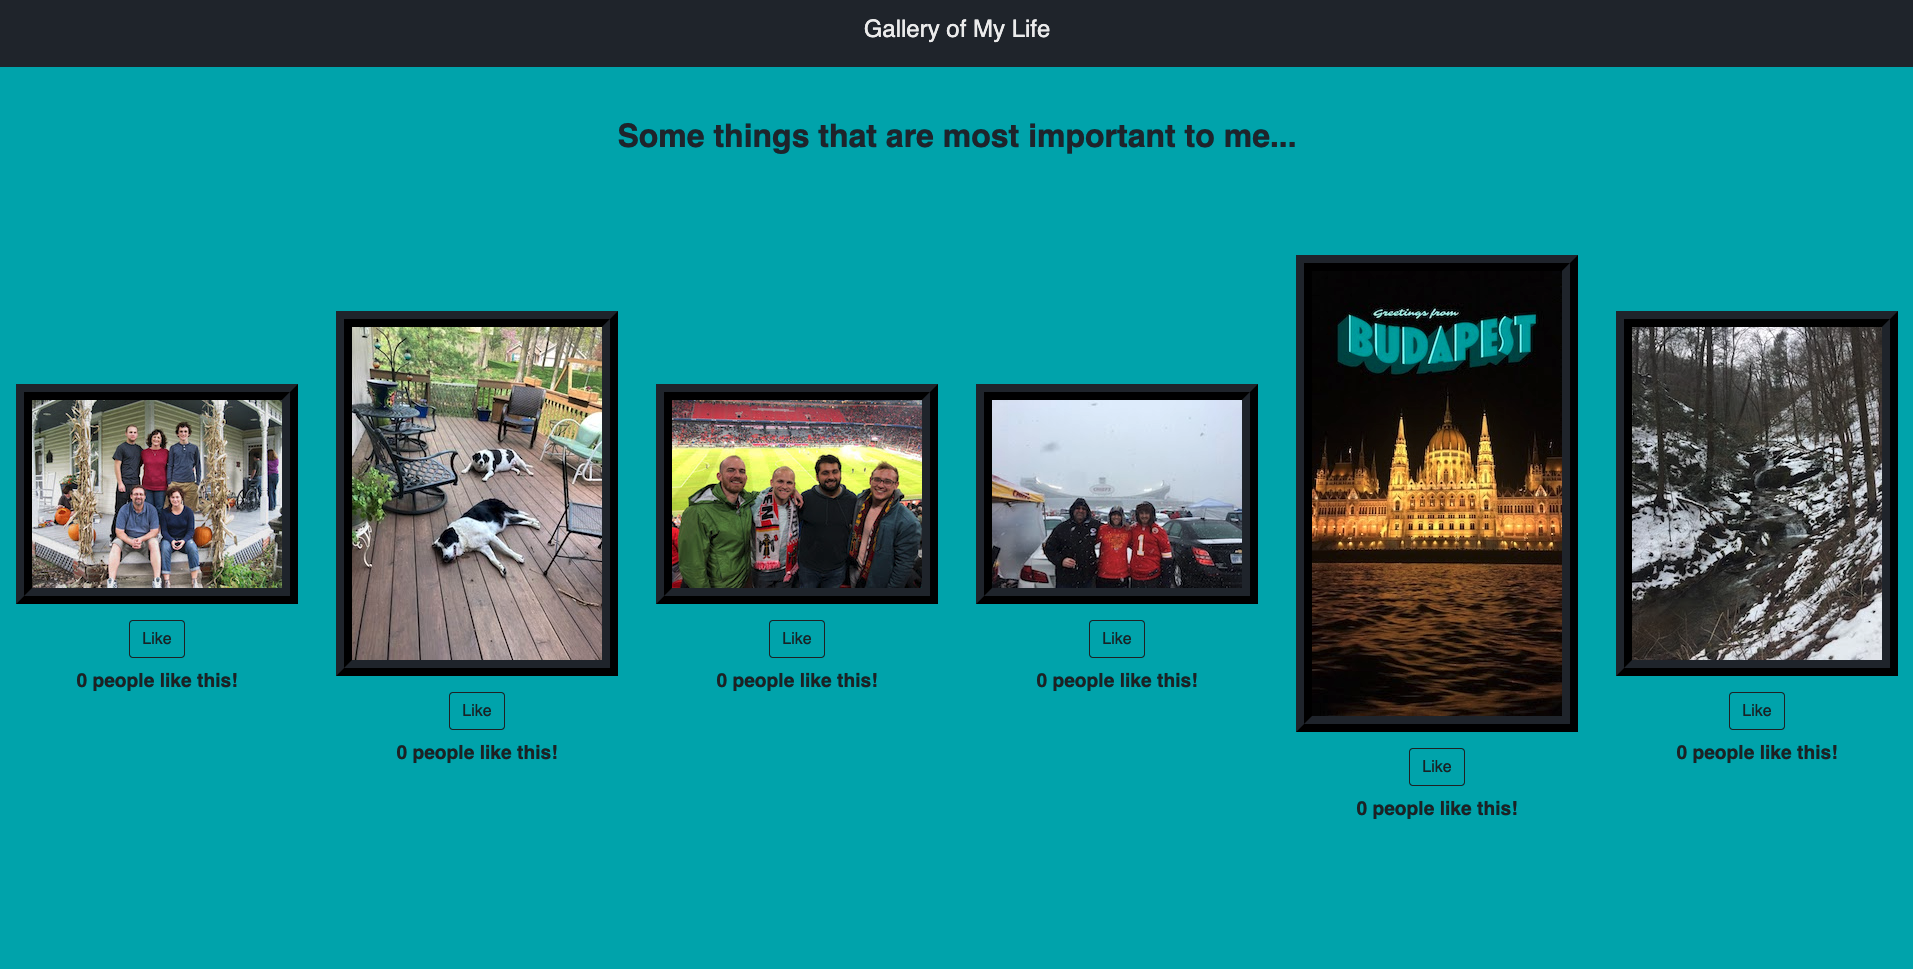
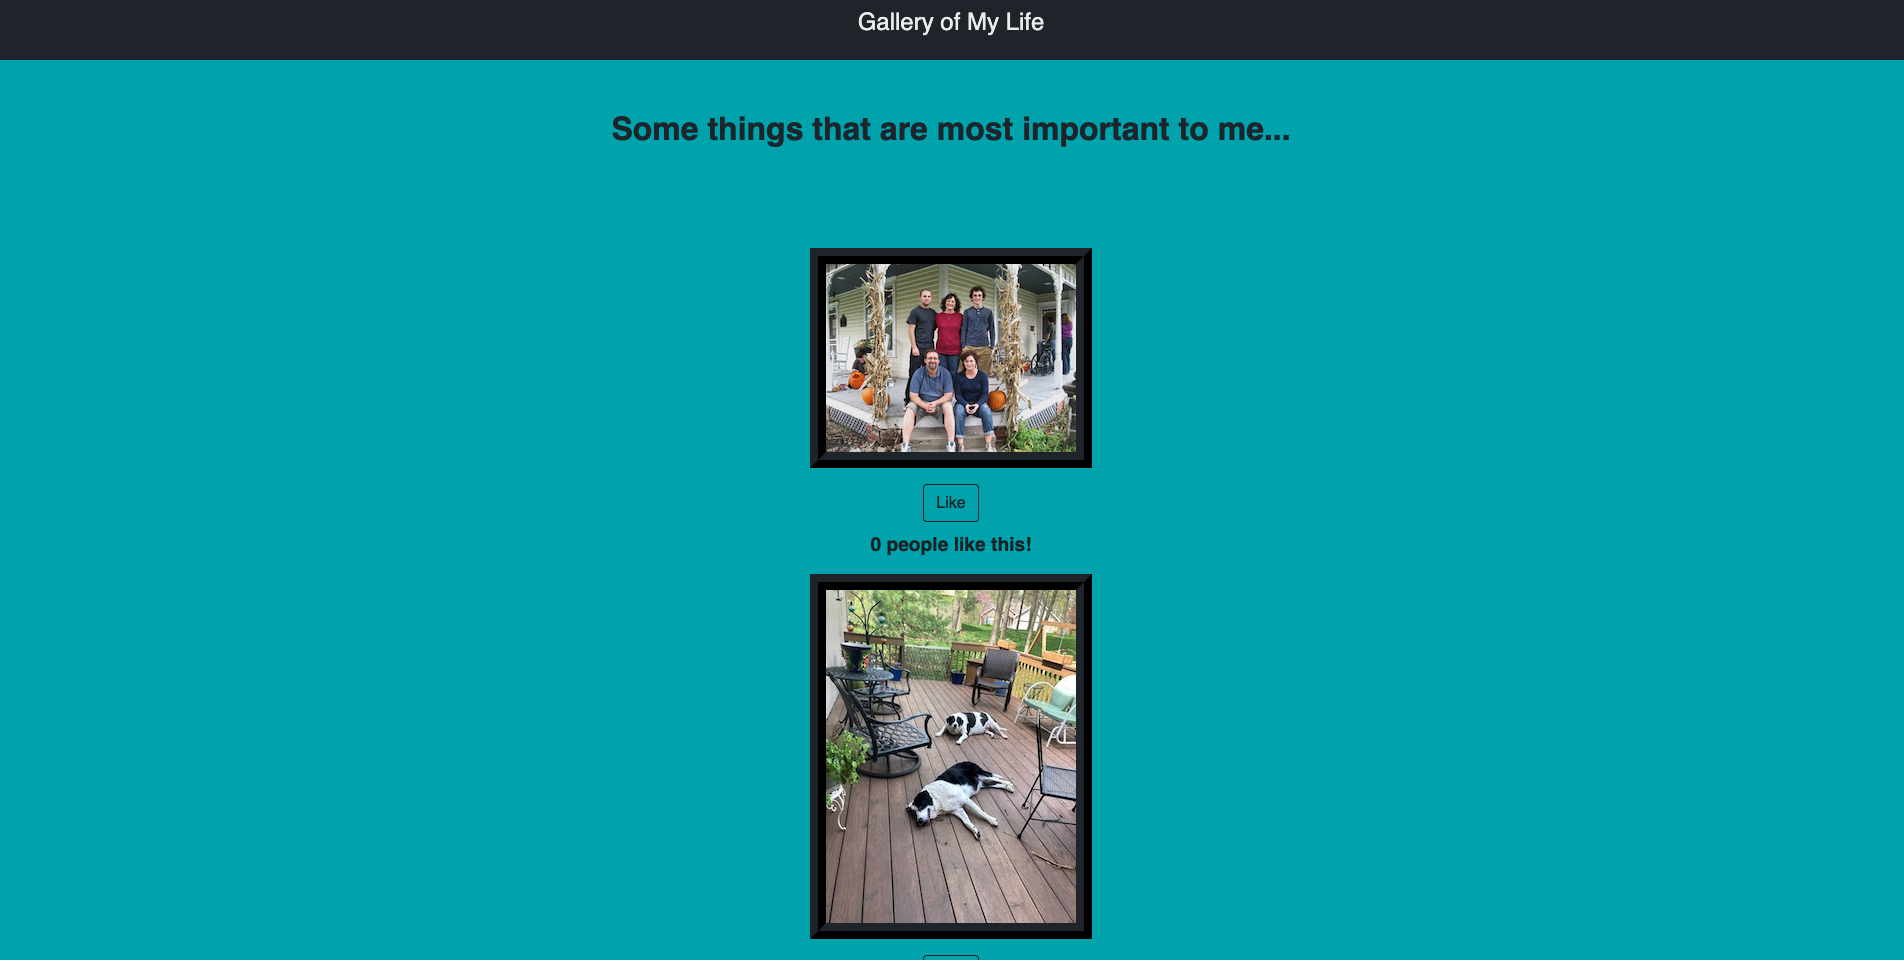
flexbox class removed

diff --git a/src/components/GalleryItem/GalleryItem.jsx b/src/components/GalleryItem/GalleryItem.jsx
@@ -27,7 +27,7 @@ function GalleryItem({ picture, getPictures, pictureGallery }) {
 
     return (
         <div>
-            <div className="flex-box-display-child" onClick={() => setIsFlipped(!isFlipped)}>
+            <div onClick={() => setIsFlipped(!isFlipped)}>
                 {isFlipped ? (
                     <div>
                         <p className="descriptionClass">{picture.description}</p>

diff --git a/src/components/GalleryList/GalleryList.jsx b/src/components/GalleryList/GalleryList.jsx
@@ -7,7 +7,7 @@ function GalleryList({ pictureGallery, getPictures }) {
 
     return (
 
-        <div className="flex-container">
+        <div>
             {pictureGallery.map(picture => {
 
                 return (

diff --git a/src/components/App/App.css b/src/components/App/App.css
@@ -23,14 +23,6 @@ btn-outline-dark {
   font-weight: 600;
 }
 
-.flex-container {
-  display: flex;
-  flex-direction: row;
-  justify-content: space-around;
-  align-items: baseline;
-}
-
-
 
 h2 {
   color: #222831;
